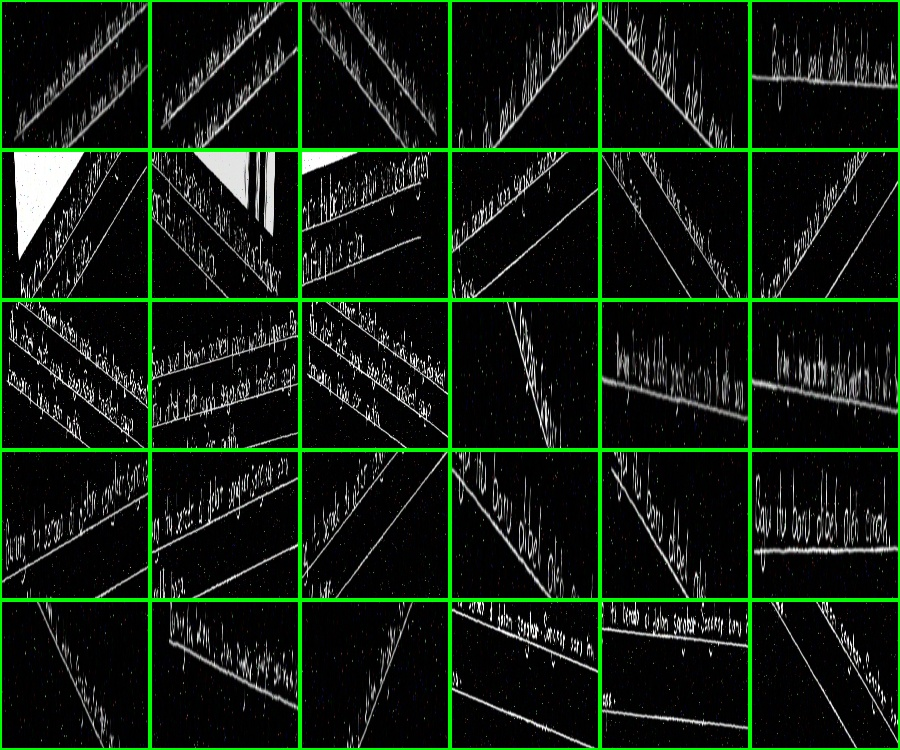
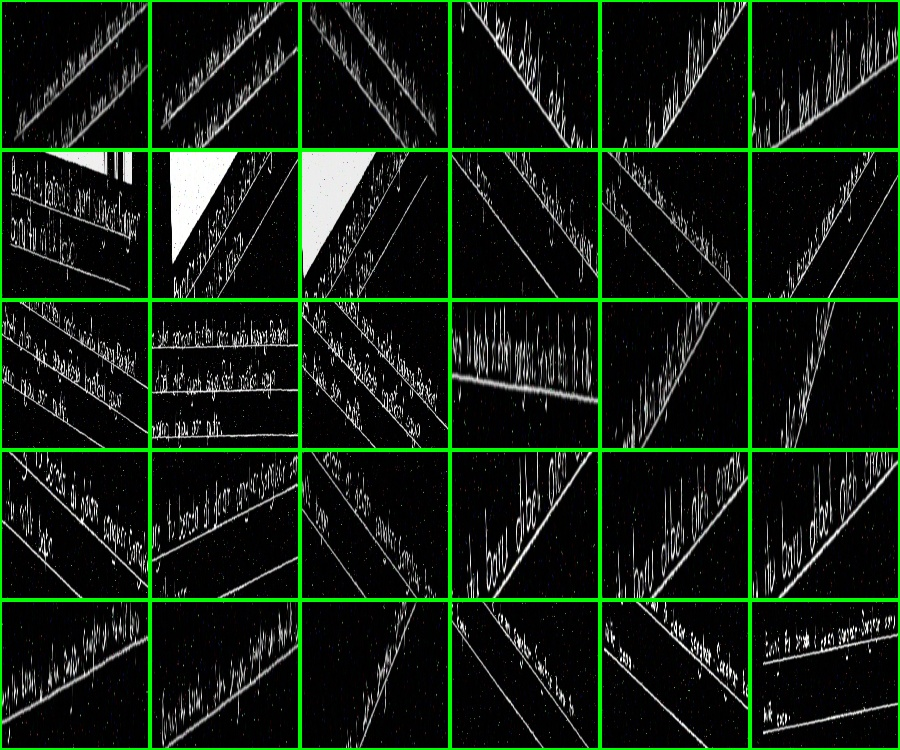
Update augmentation parameters and configuration for enhanced dataset generation
- Adjusted execution counts in Jupyter notebook for consistent tracking.
- Increased the number of augmented variants per image from 10 to 162, resulting in a total of 20,088 augmented images.
- Updated the minimum augmentation multiplier in config.py from 10 to 162 to reflect the new target.
- Modified output messages in the notebook to accurately report the new augmentation statistics.
- Added a new checkpoint file for configuration settings to ensure reproducibility.
- Updated binary files for augmented spotcheck images.

diff --git a/phase_01/.ipynb_checkpoints/config-checkpoint.py b/phase_01/.ipynb_checkpoints/config-checkpoint.py
@@ -52,4 +52,4 @@ TIER3_PARAMS = {
 
 # ── Augmentation pool size target ─────────────────────────────────────────────
 # Final augmented pool must be ≥10× the original training set size
-MIN_AUG_MULTIPLIER = 162
+MIN_AUG_MULTIPLIER = 10
